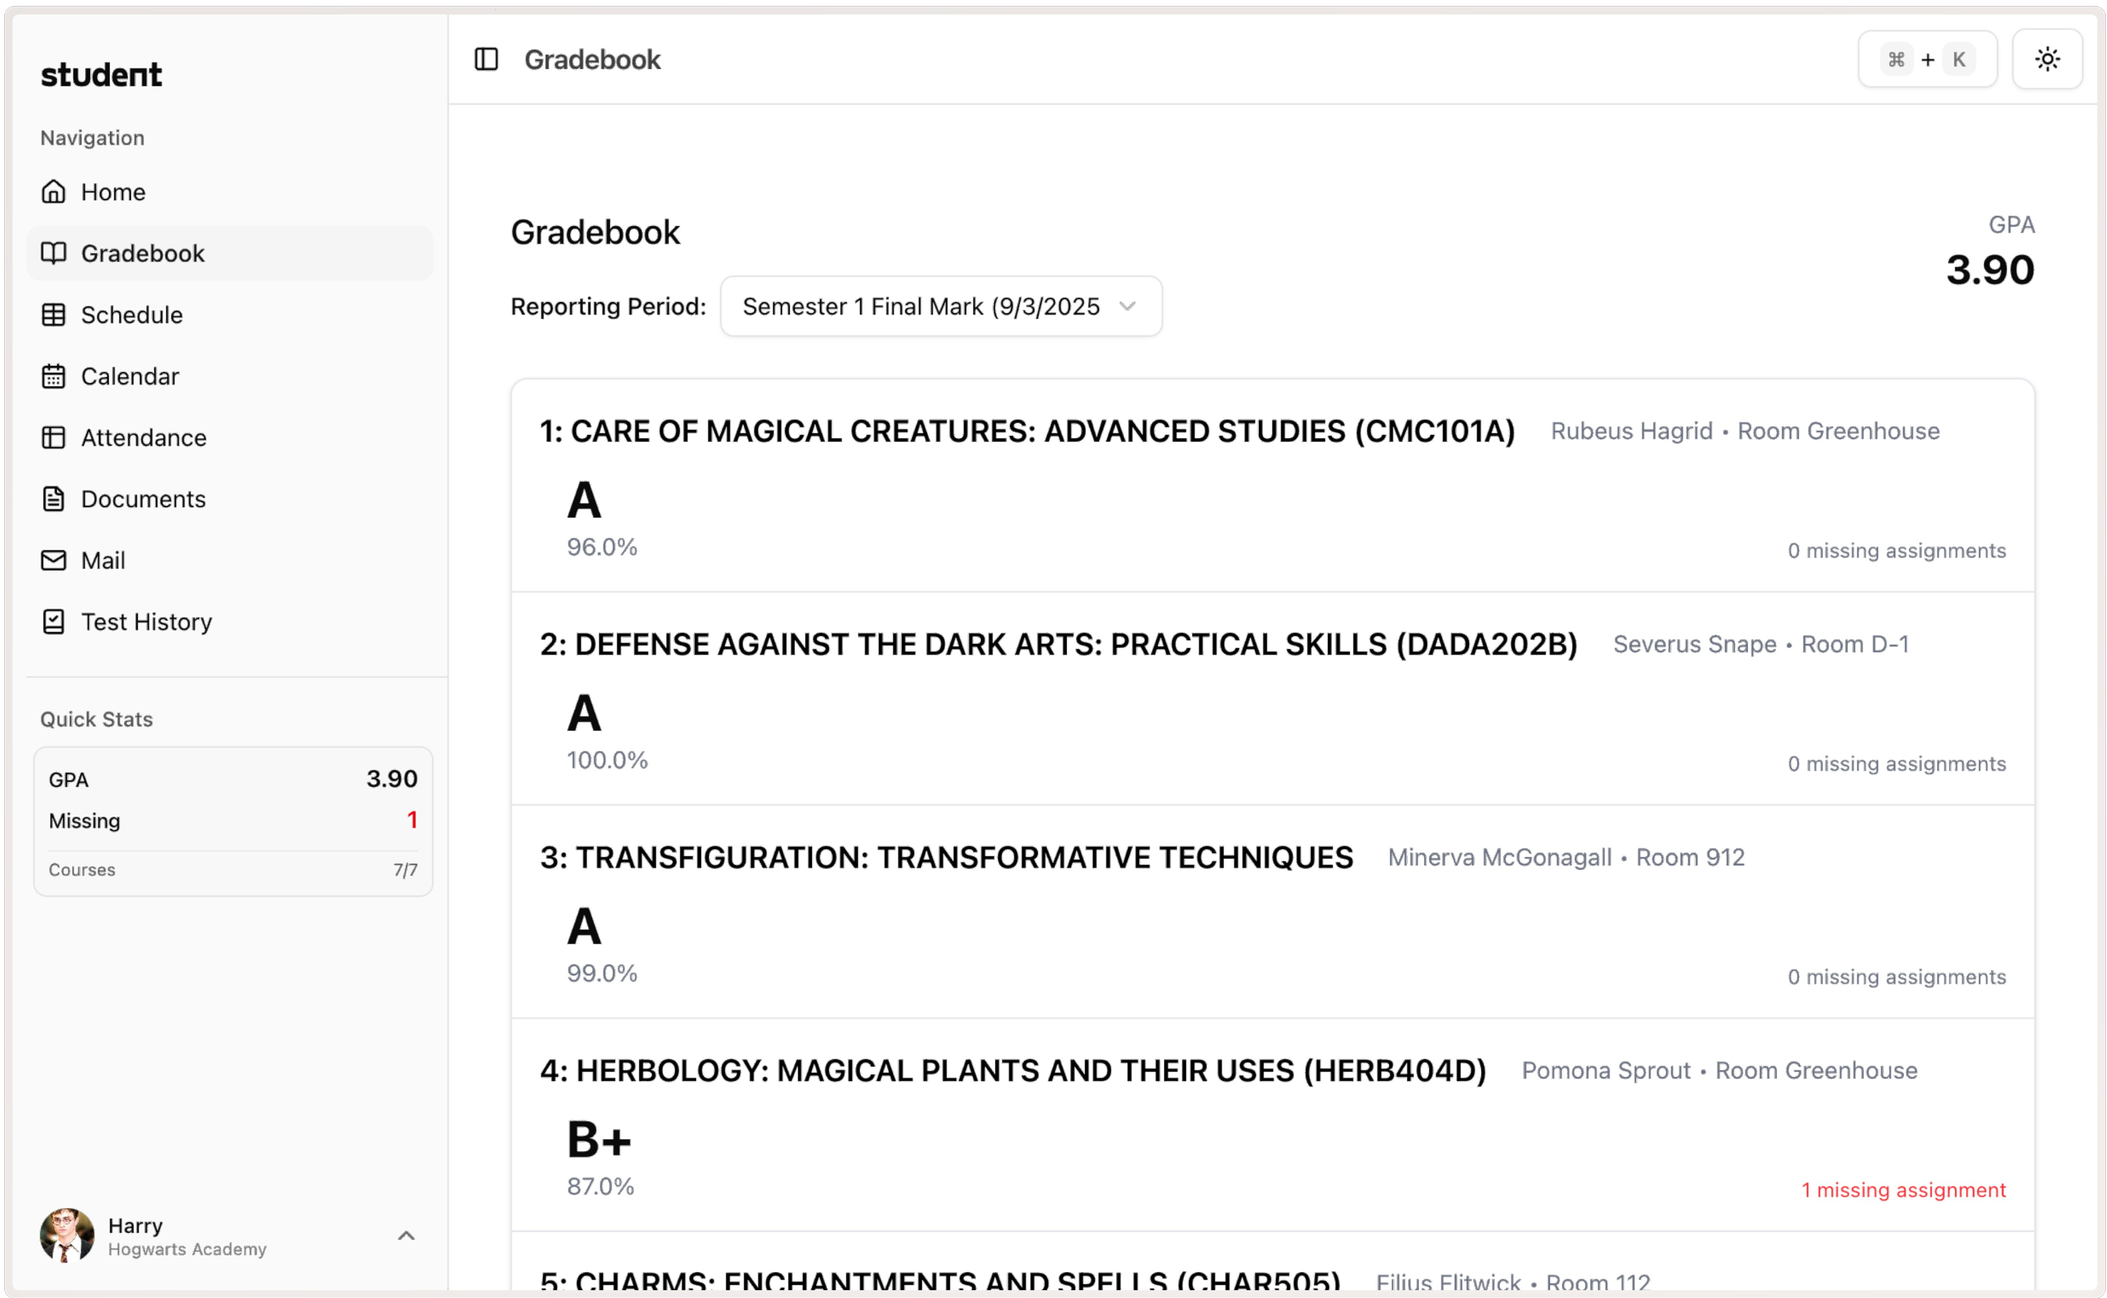
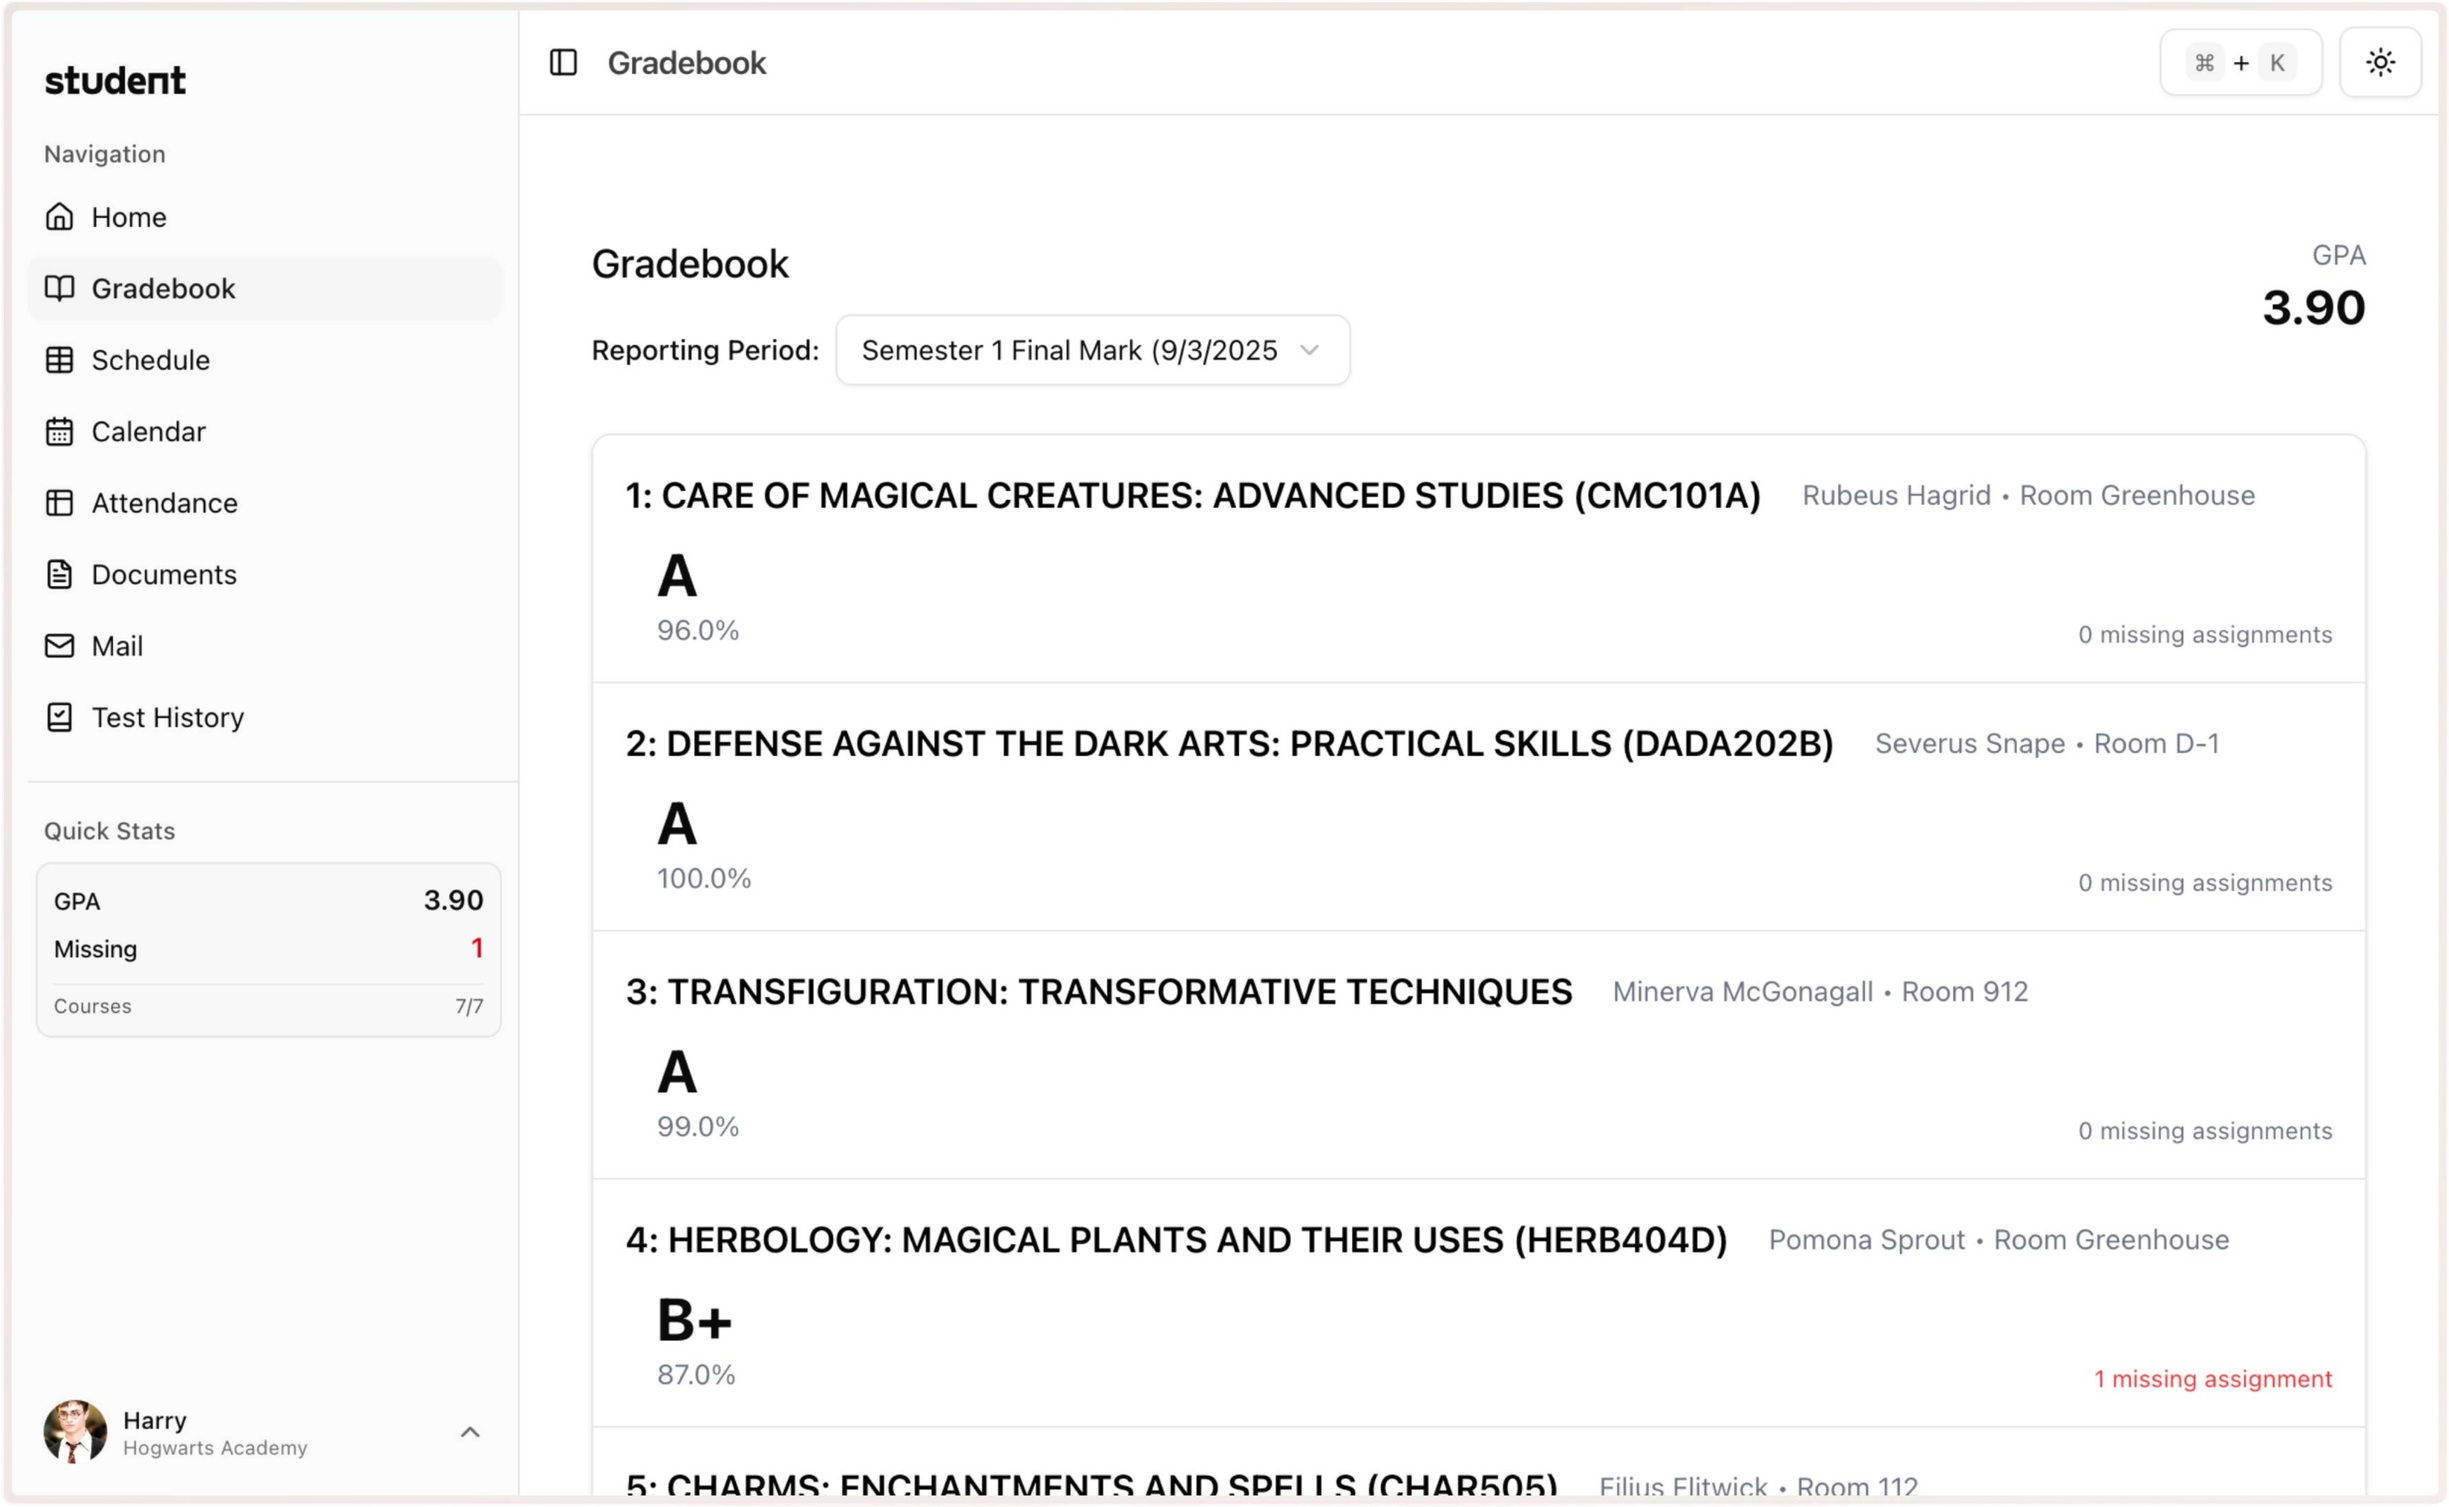
new image v2

diff --git a/app/page.tsx b/app/page.tsx
@@ -1,11 +1,20 @@
+"use client";
+
 import { Button } from "@/components/ui/button";
 import { SiGithub } from "react-icons/si";
 import Image from "next/image";
 import Link from "next/link";
 import { Lock, EyeOff, Rocket } from "lucide-react";
 import { Badge } from "@/components/ui/badge";
+import { useTheme } from "next-themes";
+import { useEffect } from "react";
 
 export default function Home() {
+  const { setTheme } = useTheme();
+
+  useEffect(() => {
+    setTheme("light");
+  }, [setTheme]);
   return (
     <>
       <div>
@@ -39,7 +48,7 @@ export default function Home() {
               </div>
             </div>
             <div className="relative -mb-10 w-full flex justify-end">
-              <img
+              <Image
                 src="/screenshots/gradebook.png"
                 alt="Gradebook screenshot"
                 width={2500}
@@ -51,12 +60,24 @@ export default function Home() {
         </div>
         <div className="bg-black text-white w-screen relative">
           {/* design */}
-          <div className="p-20 w-[30rem] relative z-20">
-            <p className="text-2xl">Clean, minimalistic UI</p>
-            <p>
-              Student features an ultra slick, clean interface. It{"'"}s miles
-              ahead of StudentVUE{"'"}s clunky old interface.
-            </p>
+          <div className="grid grid-cols-2 gap-10 items-start">
+            <div className="relative p-10 w-full flex justify-start">
+              <Image
+          src="/screenshots/class.png"
+          alt="Class screenshot"
+          width={1600}
+          height={1600}
+          className="relative z-10 w-full h-auto max-w-5xl"
+          priority
+              />
+            </div>
+            <div className="p-20 w-full min-w-[50%] relative z-20">
+              <p className="text-2xl">Clean, minimalistic UI</p>
+              <p>
+          Student features an ultra slick, clean interface. It{"'"}s miles
+          ahead of StudentVUE{"'"}s clunky old interface.
+              </p>
+            </div>
           </div>
         </div>
 
